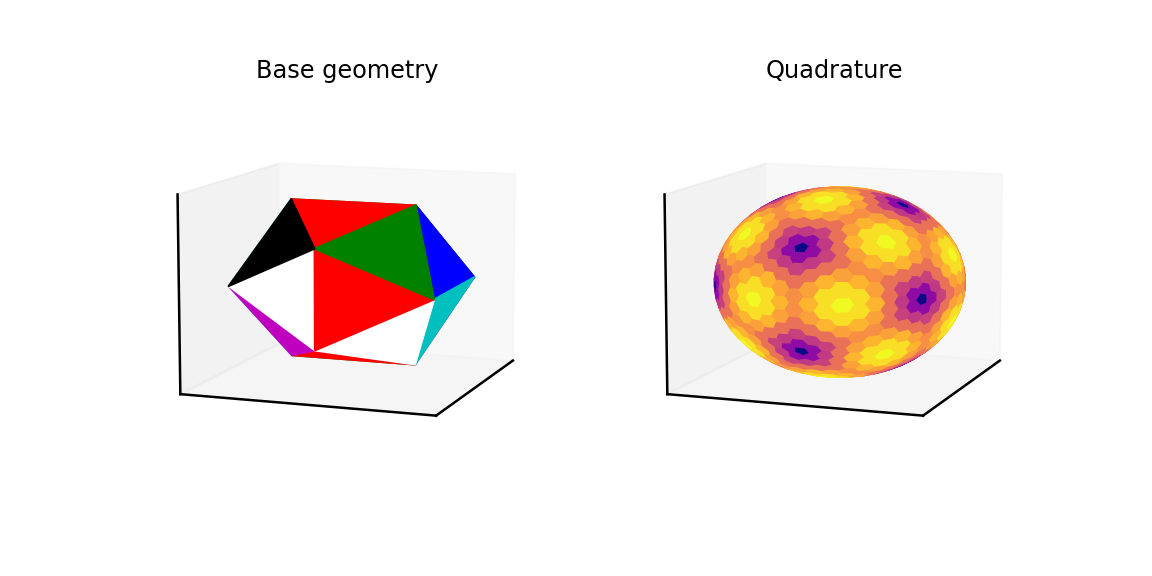
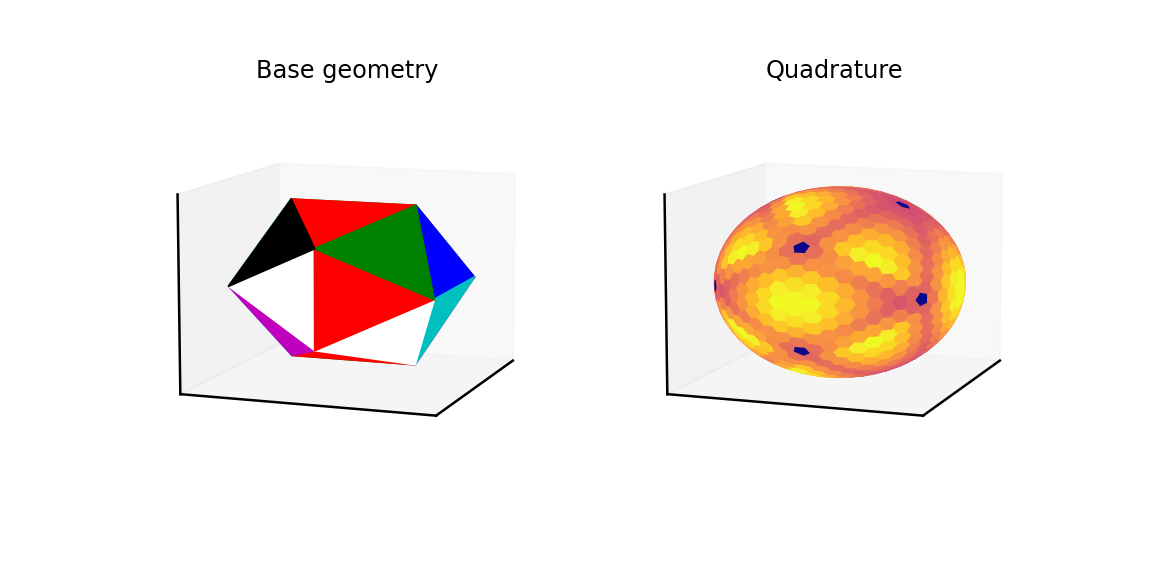
Implementing slerp.

Changed region(s): [[0.5938, 0.3125, 0.8438, 0.6562]]

diff --git a/platonicsolidsquadrature.py b/platonicsolidsquadrature.py
@@ -11,12 +11,35 @@ import numpy as np
 from numba import njit
 
 from platonicsolids import getVerticesAndFaces
-from geometryhelper import *
+from geometryhelper import getarea
 
 
-def platonicsolidsquadrature(platonicsolid, n):
+def platonicsolidsquadrature(platonicsolid, n, slerpflag=False):
+
+    if slerpflag:
+
+        def interp(pointa, pointb, n):
+            """Spherical linear interpolation between
+            two points."""
+            if n == 1:
+                return pointa
+            omega = np.arccos(np.dot(pointa, pointb))
+            t = np.linspace(0, 1, n)
+
+            return (
+                np.outer(pointa, np.sin((1 - t) * omega) / np.sin(omega))
+                + np.outer(pointb, np.sin((t) * omega) / np.sin(omega))
+            ).T
+
+    else:
+
+        def interp(p0, p1, n):
+            print(n)
+            print(p0.shape)
+            return np.linspace(p0, p1, n)
+
     vertices, faces = getVerticesAndFaces(platonicsolid)
-    pts, con = getpoints(vertices, faces, n)
+    pts, con = getpoints(vertices, faces, n, interp)
     neighbours = getneighbours(pts, con)
     neighbours = sortneighbours(neighbours)
     weights, ptsdual = computeareaanddual(pts, neighbours)
@@ -24,7 +47,7 @@ def platonicsolidsquadrature(platonicsolid, n):
     return pts, weights, neighbours, ptsdual, vertices, faces
 
 
-def triangulateface(p0, p1, p2, n):
+def triangulateface(p0, p1, p2, n, interp):
     """
     Ginven three points and the number of points along an edge,
     this performs the triangulation and returns
@@ -32,8 +55,9 @@ def triangulateface(p0, p1, p2, n):
     is stored in an undirected way.
     """
     assert n >= 2
-    count = lambda i: (i + 1) * (i + 2) // 2  # Number of points up to row i.
-    interp = lambda p0, p1, n: np.linspace(p0, p1, n)  # Can be changed to slerp.
+
+    def count(i):
+        return (i + 1) * (i + 2) // 2  # Number of points up to row i.
 
     pts = np.zeros((0, 3))  # Store points' coordinates.
     con = np.zeros((0, 2), dtype=int)  # Store connection ids.
@@ -60,13 +84,15 @@ def triangulateface(p0, p1, p2, n):
     return pts, con
 
 
-def triangulateallfaces(vertices, faces, n):
+def triangulateallfaces(vertices, faces, n, interp):
 
     pts = np.zeros((0, 3))  # Store points' coordinates.
     con = np.zeros((0, 2), dtype=int)  # Store connection ids.
     for i in range(faces.shape[0]):
         a, b, c = faces[i, :]
-        ptsi, coni = triangulateface(vertices[a, :], vertices[b, :], vertices[c, :], n)
+        ptsi, coni = triangulateface(
+            vertices[a, :], vertices[b, :], vertices[c, :], n, interp
+        )
         con = np.vstack([con, coni + pts.shape[0]])  # Offset points ids and store.
         pts = np.vstack([pts, ptsi])  # Store new points
 
@@ -96,10 +122,7 @@ def merge(pts, con):
     """
 
     matches = getmatches(pts)
-    npts = pts.shape[0]
 
-    # d = distance_matrix(pts,pts)
-    # matches = np.argwhere(np.isclose(d,0.0,atol = 1e-10)) # Points that are equal.
     matches = np.sort(matches)
     newids = np.arange(pts.shape[0])
     toremove = np.zeros(0, dtype=int)
@@ -121,12 +144,12 @@ def merge(pts, con):
     return pts, con
 
 
-def getpoints(vertices, faces, n):
+def getpoints(vertices, faces, n, interp):
     """
     Returns the unprojected points and their connectivity.
     npoints = 4n**2−8n+6
     """
-    pts, con = triangulateallfaces(vertices, faces, n)
+    pts, con = triangulateallfaces(vertices, faces, n, interp)
     pts, con = merge(pts, con)
     return pts, con
 
@@ -189,10 +212,6 @@ def computeareaanddual(pts, neighbours):
             pij = (pi + pj) / 2
             pik = (pi + pk) / 2
             pc = (pi + pj + pk) / 3
-            # heros formula
-            # a,b,c = np.linalg.norm(pi-pj),np.linalg.norm(pi-pk),np.linalg.norm(pk-pj)
-            # s = (a+b+c)/2
-            # areas[i] += np.sqrt(s*(s-a)*(s-b)*(s-c))
             areas[i] += getarea(pi, pij, pc) + getarea(pi, pc, pik)
             pcenter = (pi + pj + pk) / 3
             ptsdual[i, m, :] = pcenter

diff --git a/README.md b/README.md
@@ -4,7 +4,7 @@ Geometric quadrature sets, based upon a triangulation of some Platonic solids.
 ## How To?
 ```python
 from platonicsolidsquadrature import platonicsolidsquadrature
-points,weights,neighbours,dual,platonicpoints,platonicneighbours =  platonicsolidsquadrature("ico",10)
+points,weights,neighbours,dual,platonicpoints,platonicneighbours =  platonicsolidsquadrature("ico",10,slerpflag=True)
 ```
 
 Above, we choose the icosahedron as the platonic solid.
